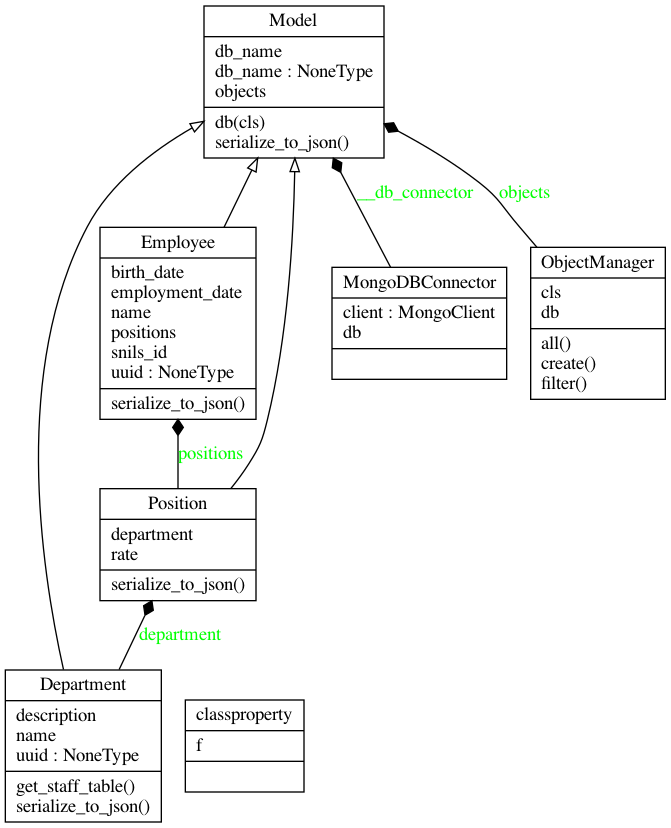
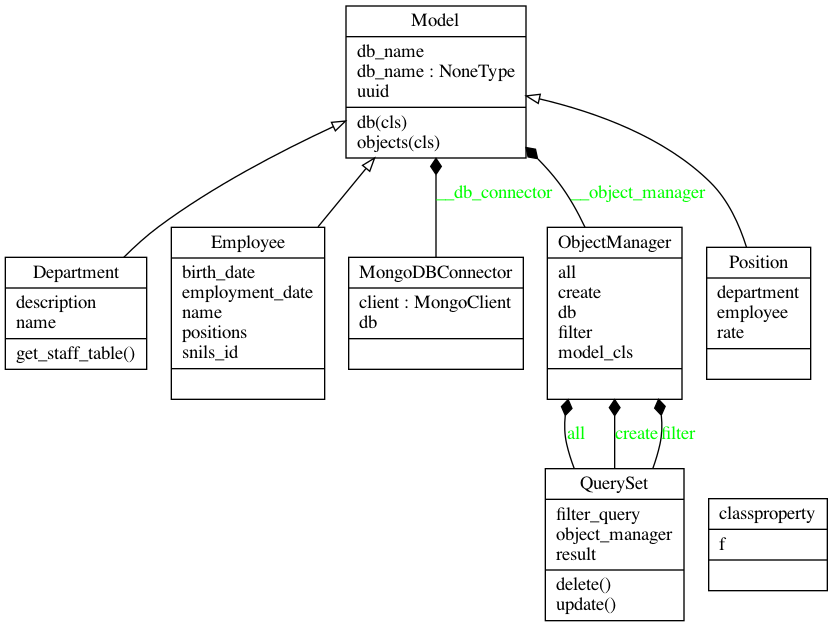
add querysets and usage example

diff --git a/task2/main.py b/task2/main.py
@@ -1,6 +1,7 @@
 from datetime import datetime
 
 import pymongo
+from bson.objectid import ObjectId
 
 
 class MongoDBConnector:
@@ -13,31 +14,56 @@ class classproperty(object):
     def __init__(self, f):
         self.f = f
 
-    def __get__(self, obj, owner):
-        return self.f(owner)
+    def __get__(self, obj, cls):
+        return self.f(cls)
+
+
+class QuerySet:
+    def __init__(self, object_manager, filter_query, result):
+        self.object_manager = object_manager
+        self.filter_query = filter_query
+        self.result = result
+
+    def __repr__(self):
+        return self.result
+
+    def __getitem__(self, key):
+        return self.object_manager.model_cls(**self.result[key])
+
+    def update(self, **kwargs):
+        return self.object_manager.db.update_many(self.filter_query, {'$set': kwargs})
+
+    def delete(self):
+        return self.object_manager.db.delete_many(self.filter_query)
 
 
 class ObjectManager:
-    def __init__(self, cls):
-        self.cls = cls
-        self.db = cls.db
+    def __init__(self, model_cls):
+        self.model_cls = model_cls
+        self.db = model_cls.db
 
     def create(self, **kwargs):
-        instance = self.cls(**kwargs)
-        instance_json = instance.serialize_to_json()
+        instance = self.model_cls(**kwargs)
+        instance_json = instance._serialize_to_json()
         instance.uuid = self.db.insert_one(instance_json).inserted_id
         return instance
 
     def all(self):
-        return self.db.find({}, {'_id': False})
+        return self.filter()
 
     def filter(self, **kwargs):
-        return self.db.find(kwargs, {'_id': False})
+        if 'uuid' in kwargs:
+            kwargs['_id'] = ObjectId(kwargs.pop('uuid'))
+        return QuerySet(self, kwargs, self.db.find(kwargs))
 
 
 class Model:
     __db_connector = MongoDBConnector("localhost", 27017)
+    __object_manager = ObjectManager
     db_name = None
+
+    def __init__(self, *args, **kwargs):
+        self.uuid = kwargs.get('uuid', kwargs.get('_id', None))
 
     @classproperty
     def db(cls):
@@ -47,19 +73,25 @@ class Model:
 
     @classproperty
     def objects(cls):
-        return ObjectManager(cls)
+        return cls.__object_manager(cls)
 
-    def serialize_to_json(self):
-        raise NotImplementedError("You must implement serialize_to_json")
+    def _serialize_to_json(self):
+        raise NotImplementedError("You must implement _serialize_to_json")
+
+    def _is_object_exists_in_db(self):
+        return bool(self.uuid)
 
 
 class Department(Model):
-    def __init__(self, name: str, description: str):
-        self.uuid = None
+    def __init__(self, name: str, **kwargs):
+        super().__init__(**kwargs)
         self.name = name
-        self.description = description
+        self.description = kwargs.get('description', None)
 
-    def serialize_to_json(self):
+    def __repr__(self):
+        return f'{self.name} ({self.description or "Описание отсутствует"})'
+
+    def _serialize_to_json(self):
         return {
             "name": self.name,
             "description": self.description
@@ -69,38 +101,67 @@ class Department(Model):
         pass
 
 
-class Position(Model):
-    def __init__(self, department: Department, rate: float):
-        self.department = department
-        self.rate = rate
-
-    def serialize_to_json(self):
-        return {
-            'department': self.department.name,
-            'rate': self.rate
-        }
-
-
 class Employee(Model):
     def __init__(self, *args, **kwargs):
-        self.uuid = None
+        super().__init__(**kwargs)
         self.name = kwargs.get('name', None)
         self.birth_date = kwargs.get('birth_date', None)
-        self.positions = kwargs.get('positions', [])
         self.employment_date = kwargs.get('employment_date', None)
         self.snils_id = kwargs.get('snils_id', None)
 
-    def serialize_to_json(self):
+    def __repr__(self):
+        return f'{self.snils_id}: {self.name} ({datetime.fromtimestamp(self.birth_date)})'
+
+    def _serialize_to_json(self):
         return {
             'name': self.name,
             'birth_date': self.birth_date.timestamp(),
             'employment_date': self.employment_date.timestamp() if self.employment_date else None,
             'snils_id': self.snils_id,
-            'positions': [position.serialize_to_json() for position in self.positions],
+        }
+
+    @property
+    def positions(self):
+        return [
+            (
+                Department.objects.filter(uuid=pos.department)[0],
+                pos.rate
+            ) for pos in Position.objects.filter(employee=self.uuid)
+        ]
+
+    @positions.setter
+    def positions(self, value: list):
+        if not self._is_object_exists_in_db():
+            raise Exception('Object not saved to db')
+        Position.objects.filter(employee=self.uuid).delete()
+        for (dep, rate) in value:
+            Position.objects.create(employee=self, department=dep, rate=rate)
+
+
+class Position(Model):
+    def __init__(self, department: Department, employee: Employee, rate: float, **kwargs):
+        super().__init__(**kwargs)
+        self.department = department
+        self.employee = employee
+        self.rate = rate
+
+    def _serialize_to_json(self):
+        return {
+            'department': self.department.uuid,
+            'employee': self.employee.uuid,
+            'rate': self.rate
         }
 
 
 if __name__ == '__main__':
+    # You can see main operations below with examples
+
+    # Drop db
+    Department.objects.all().delete()
+    Employee.objects.all().delete()
+    Position.objects.all().delete()
+
+    # Employee creation, full data, part data
     Employee.objects.create(
         name="Иванов Иван",
         birth_date=datetime(year=1997, month=4, day=30),
@@ -113,12 +174,66 @@ if __name__ == '__main__':
         snils_id=12312953443
     )
 
-    emp = Employee.objects.create(
+    Employee.objects.create(
         name="Игорев Игорь",
         birth_date=datetime(year=1990, month=10, day=15),
         snils_id=12312953422
     )
 
-    print(emp.uuid)
-
+    # Print each Employee from db
     print(list(Employee.objects.all()))
+
+    # Search employee in db by name
+    print(list(Employee.objects.filter(name="Андреев Андрей")))
+    # Search employee in db by snils
+    print(list(Employee.objects.filter(snils_id=12312953443)))
+
+    # Update Employee info with search by snils
+    Employee.objects.filter(snils_id=12312953443).update(name="Вася Пупкин")
+    print(list(Employee.objects.filter(snils_id=12312953443)))
+
+    # Delete Employee info with search by snils
+    Employee.objects.filter(snils_id=12312953443).delete()
+    print(list(Employee.objects.all()))
+
+    # ================================================
+
+    # Department creation, full data, part data
+    Department.objects.create(
+        name='Бухгалтерия',
+        description='В этом отделе происходит обработка финансовых документов'
+    )
+    Department.objects.create(
+        name='Безопасность'
+    )
+    Department.objects.create(
+        name='HR'
+    )
+    # Print each Department from db
+    print(list(Department.objects.all()))
+
+    # Update Department with search by name
+    Department.objects.filter(name='Безопасность').update(
+        description='В этом отделе проводится проверка новых сотрудников'
+    )
+    print(list(Department.objects.all()))
+
+    # Update Department with search by name
+    Department.objects.filter(name='Бухгалтерия').delete()
+    print(list(Department.objects.all()))
+
+    # ================================================
+
+    # Set Departments for Employee
+    emp = Employee.objects.all()[0]
+    dep1 = Department.objects.all()[0]
+    dep2 = Department.objects.all()[1]
+    print(emp, dep1, dep2)
+
+    emp.positions = [
+        (dep1, 0.5),
+        (dep2, 0.5),
+    ]
+
+    # Get Departments for Employee
+    print(emp.positions)
